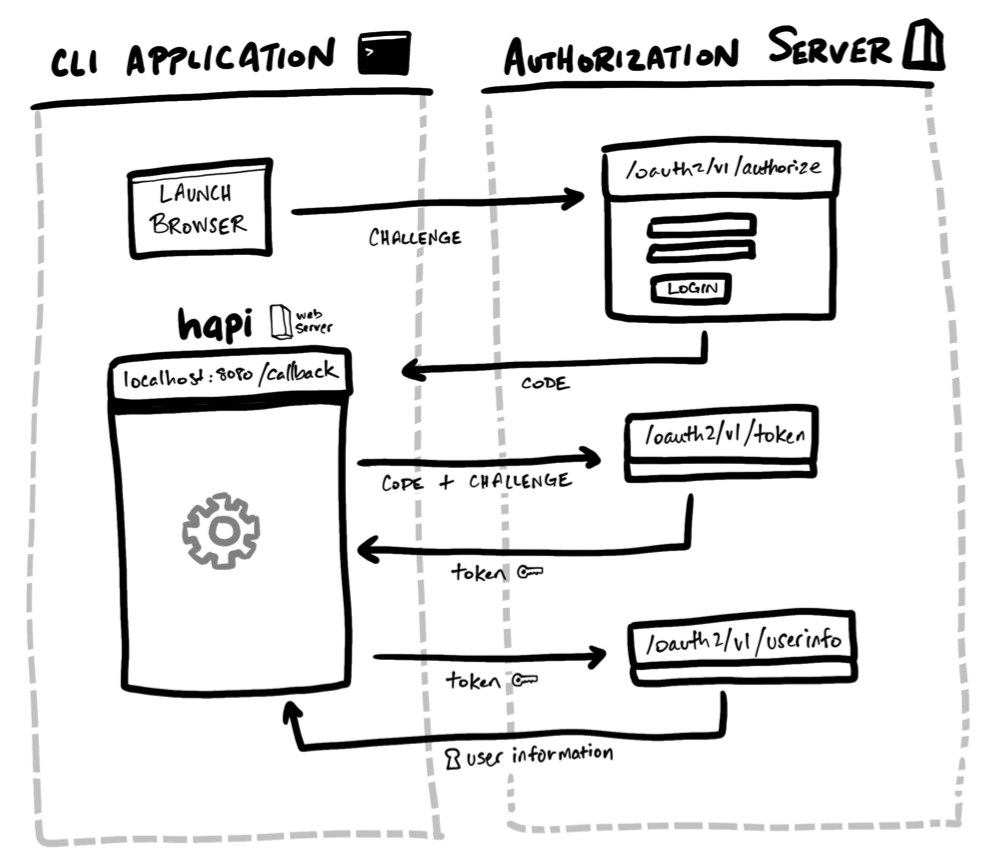
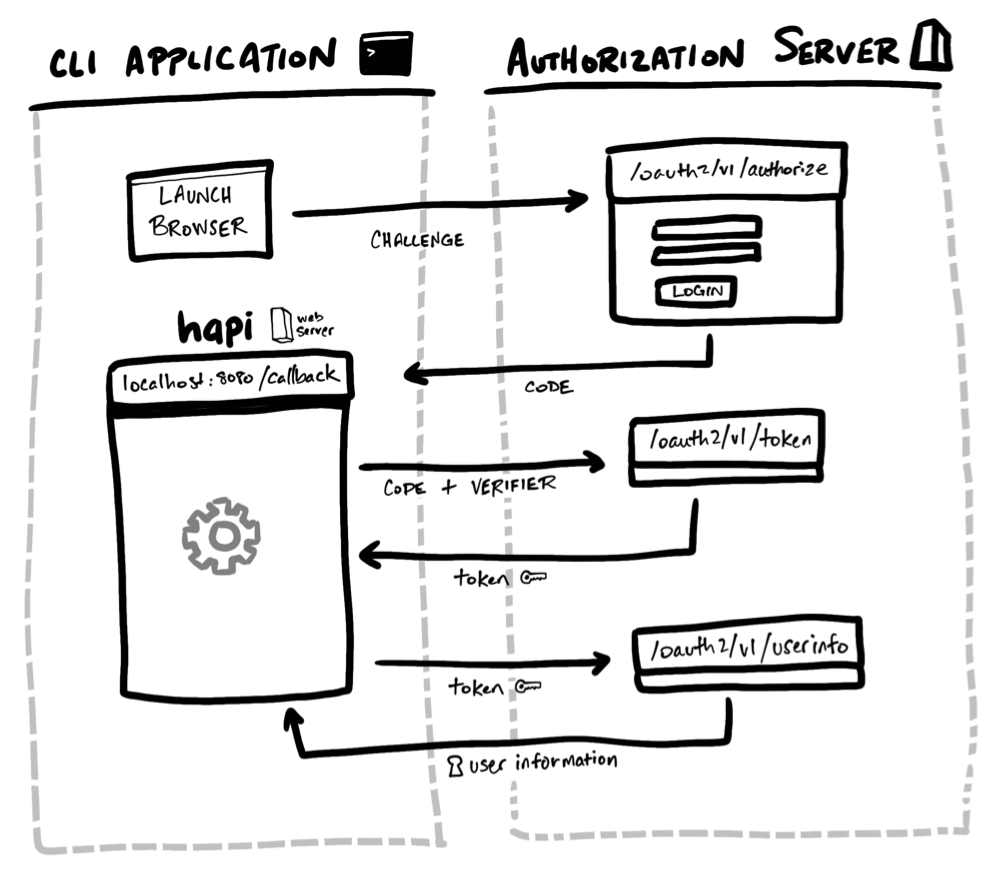
Updates to PKCE flow image and description

diff --git a/_source/_posts/2019-06-18-command-line-app-with-nodejs.md b/_source/_posts/2019-06-18-command-line-app-with-nodejs.md
@@ -51,7 +51,7 @@ Next, open the `package.json` file in the root of the project in your text edito
  }
 ```
 
-> Note: Don't forget to add a comma after the previous value. All key/value pairs are separated by commas. Often the most common mistake when editing a JSON file is leaving out a comma.
+> Note: Don't forget to add a comma after the previous value. All key/value pairs are separated by commas. The most common mistake when editing a JSON file is leaving out a comma.
 
 Your entire `package.json` file should look similar to the following.
 
@@ -463,12 +463,12 @@ The `authClient.js` module exports one function that accepts an object with the 
 Calling `executeAuthFlow` goes through the following steps:
 
 1. A new web server is created using `hapi` with one `/callback` route (e.g. `http://localhost:8080/callback`).
-1. The `codeChallenge` private key is generated.
+1. The `codeVerifier` private key is generated and hashed to create the `codeChallenge`.
 1. The function opens the default browser and navigates to the authorization server.
 1. If not already logged in, the user must log in to the authentication server.
 1. Once authenticated, the browser is redirected to the `/callback` URL with a code.
-1. The callback handler uses the code and the `codeChallenge` value to request an authentication token.
-1. The authorization server verifies the code and `codeChallenge` values and replies with an authentication token.
+1. The callback handler uses the code and the `codeVerifier` value to request an authentication token.
+1. The authorization server verifies the `code`, hashes the `codeVerifier` and compares it to the `codeChallenge` value it stored earlier and replies with an authentication token.
 1. The function uses the returned token to call another API endpoint to retrieve account information.
 1. The token and account information are returned to the caller that invoked `executeAuthFlow`.
 
